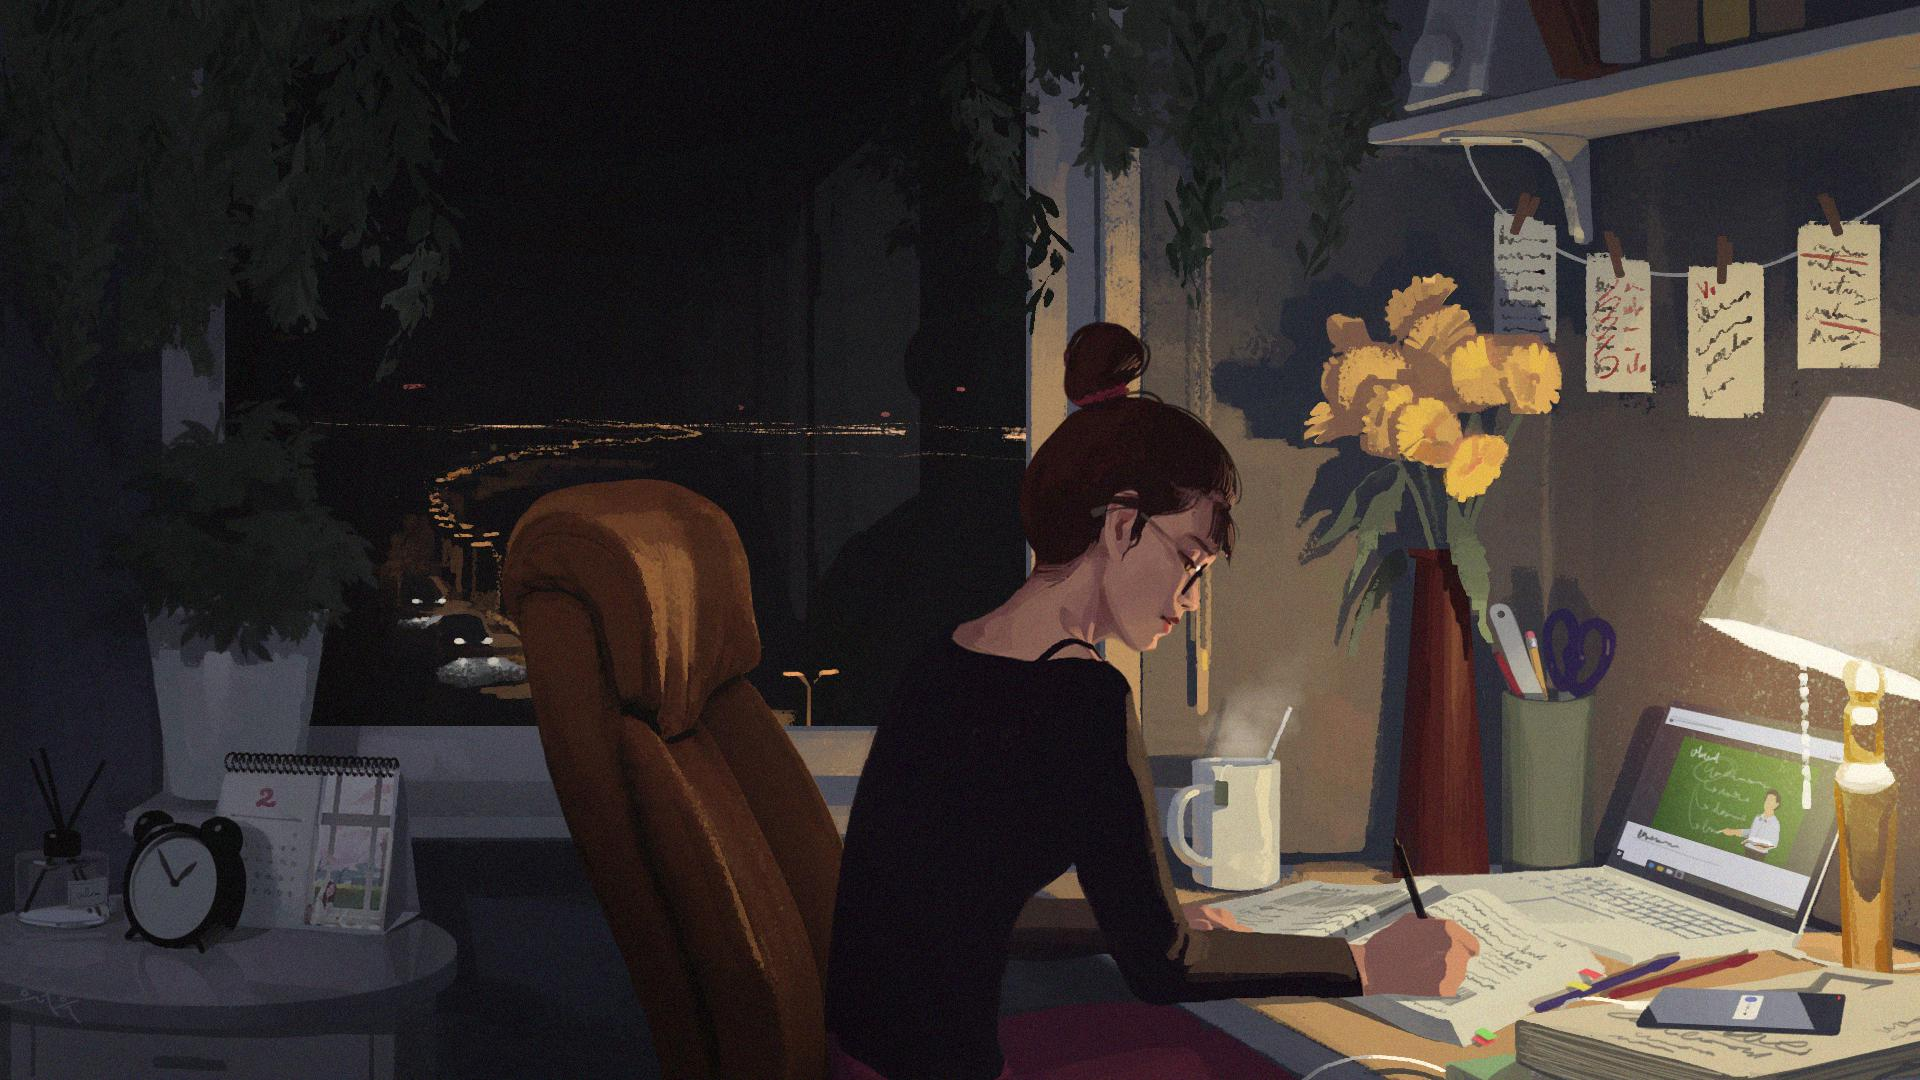
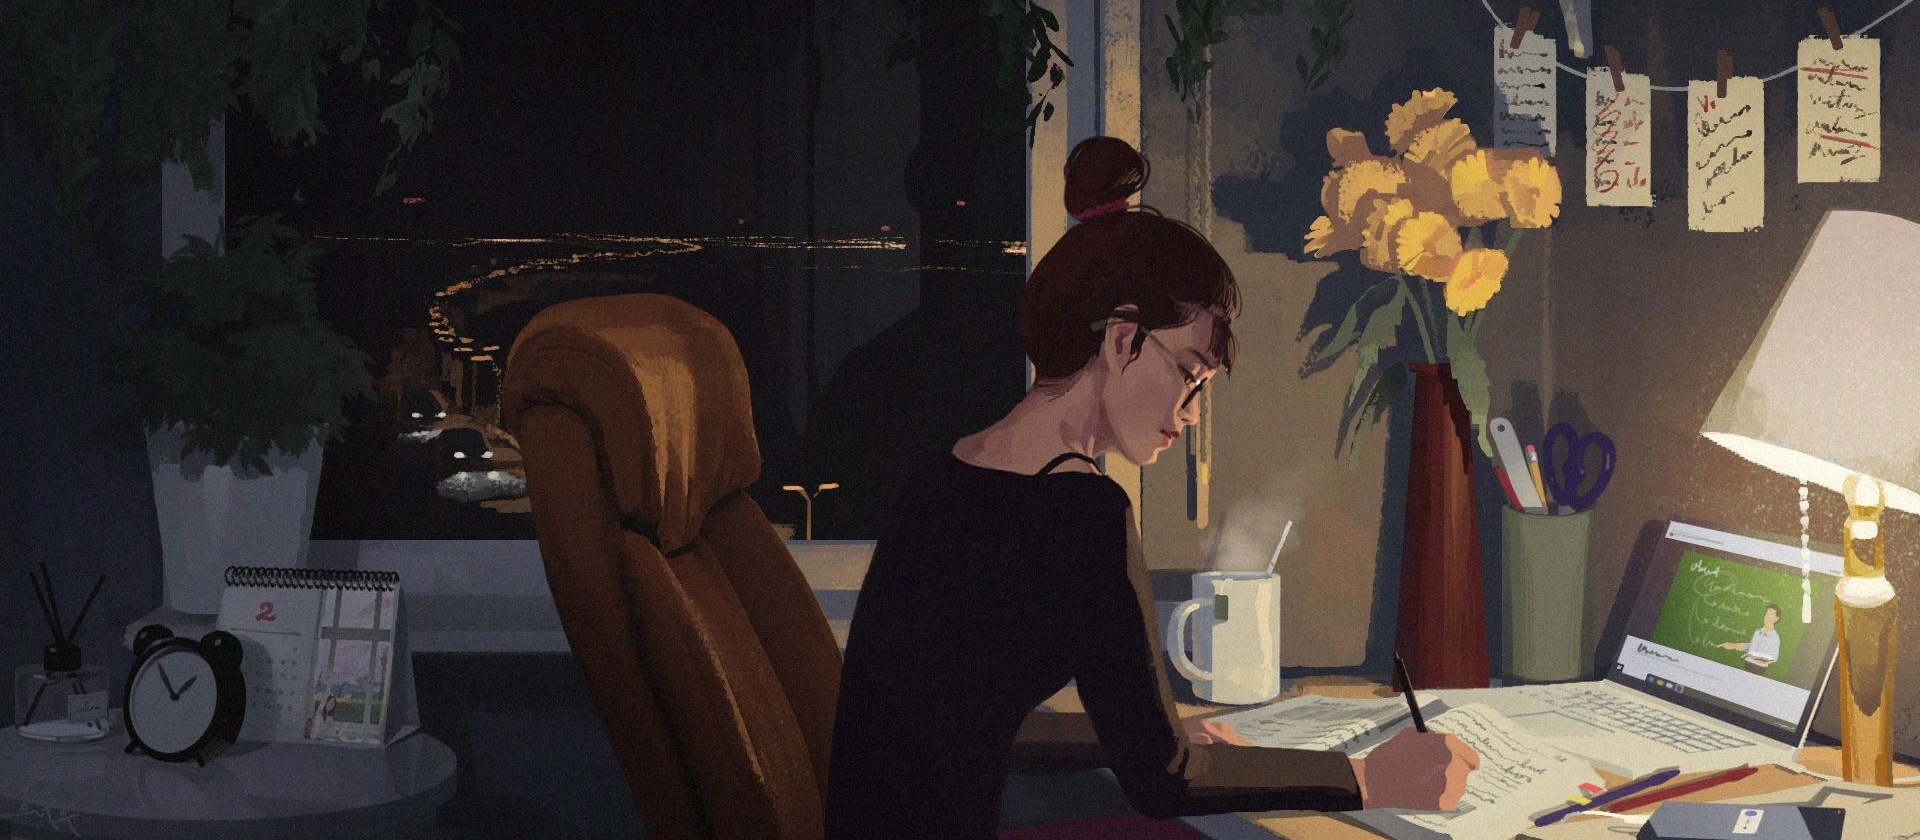
Add files via upload

diff --git a/index.html b/index.html
@@ -9,7 +9,7 @@ UniFinder
 <link rel="stylesheet" href="https://cdn.jsdelivr.net/npm/bootstrap@4.3.1/dist/css/bootstrap.min.css" integrity="sha384-ggOyR0iXCbMQv3Xipma34MD+dH/1fQ784/j6cY/iJTQUOhcWr7x9JvoRxT2MZw1T" crossorigin="anonymous">
 <script rel="text/javascript" src="js/index.js"></script>
 </head>
-<body>
+<body onload="load()" onresize="resize()">
 <div class="container-fluid row pt-2 pb-2 pr-2 pl-2" id="title1">
 <span class="col-3 ml-2 mr-1 my-auto" id="sitename">
 <a href="index.html">Uni<span id="sitep2">Finder</span></a>
@@ -67,6 +67,20 @@ SignUp
 The Right Place To Start Your University Search
 </p>
 </div> 
+<div class="row">
+<p class="col-12 text-center" id="imagehere">
+</p>
+</div>
+<div class="row text-center">
+<div class="col-md-3 border text-center ml-auto mr-auto introbox">
+Worried about your options?<br/>
+We are here to help.
+</div>
+<div class="col-md-3 border text-center ml-auto mr-auto introbox">
+</div>
+<div class="col-md-3 border text-center ml-auto mr-auto introbox">
+</div>
+</div>
 </div>
 </body>
 </html>

diff --git a/js/index.js b/js/index.js
@@ -1,3 +1,4 @@
+let device_width=0;
 let mod=false;
 function showlinks(ID)
 {
@@ -13,4 +14,20 @@ e.style.display="none";
 function mouseoverdropdown(x)
 {
 mod=x;
+}
+function setdevicewidth()
+{
+device_width=document.body.clientWidth;
+}
+function load()
+{
+setdevicewidth();
+let p=document.getElementById('imagehere');
+p.style.height=(device_width*840/1920)+"px";
+}
+function resize()
+{
+setdevicewidth();
+let p=document.getElementById('imagehere');
+p.style.height=(device_width*840/1920)+"px";
 }

diff --git a/css/index.css b/css/index.css
@@ -63,6 +63,7 @@ background-color:orange;
 font: bold 30px Microsoft-YaHei;
 color:black;
 background-color:rgb(25,176,180);
+margin-bottom:0px;
 }
 #smallscreenbuttons
 {
@@ -108,4 +109,13 @@ display:block;
 }
 #profiledropdown>a:hover,#linkdropdown>a:hover
  {color: rgb(25,176,180); text-decoration:none;}
-
+#imagehere
+{
+background-image: url('../images/index.jpg');
+background-size:cover;
+}
+.introbox
+{
+background-color:0099CC;
+font: bold 25px Microsoft-YaHei;
+}
